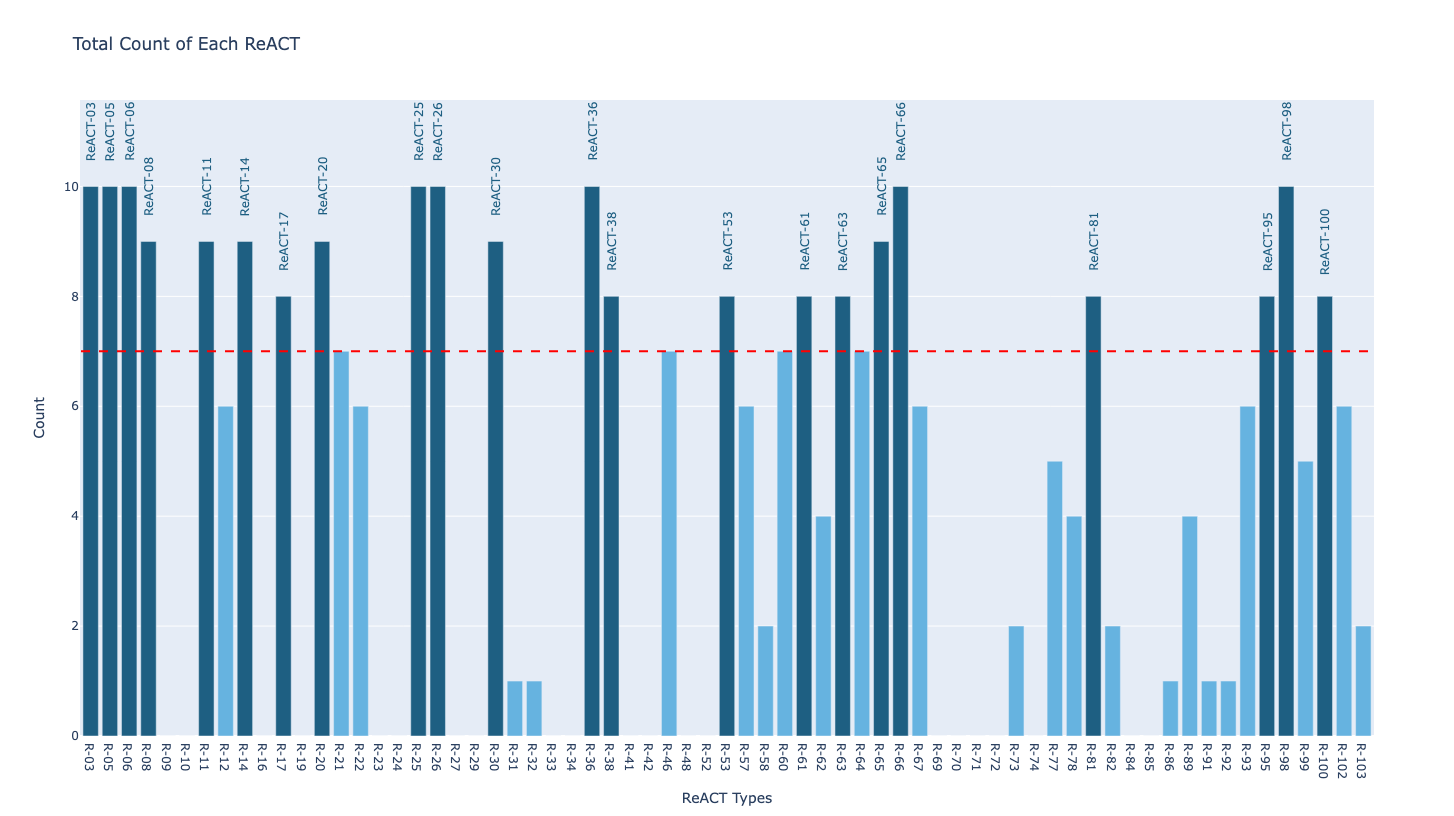
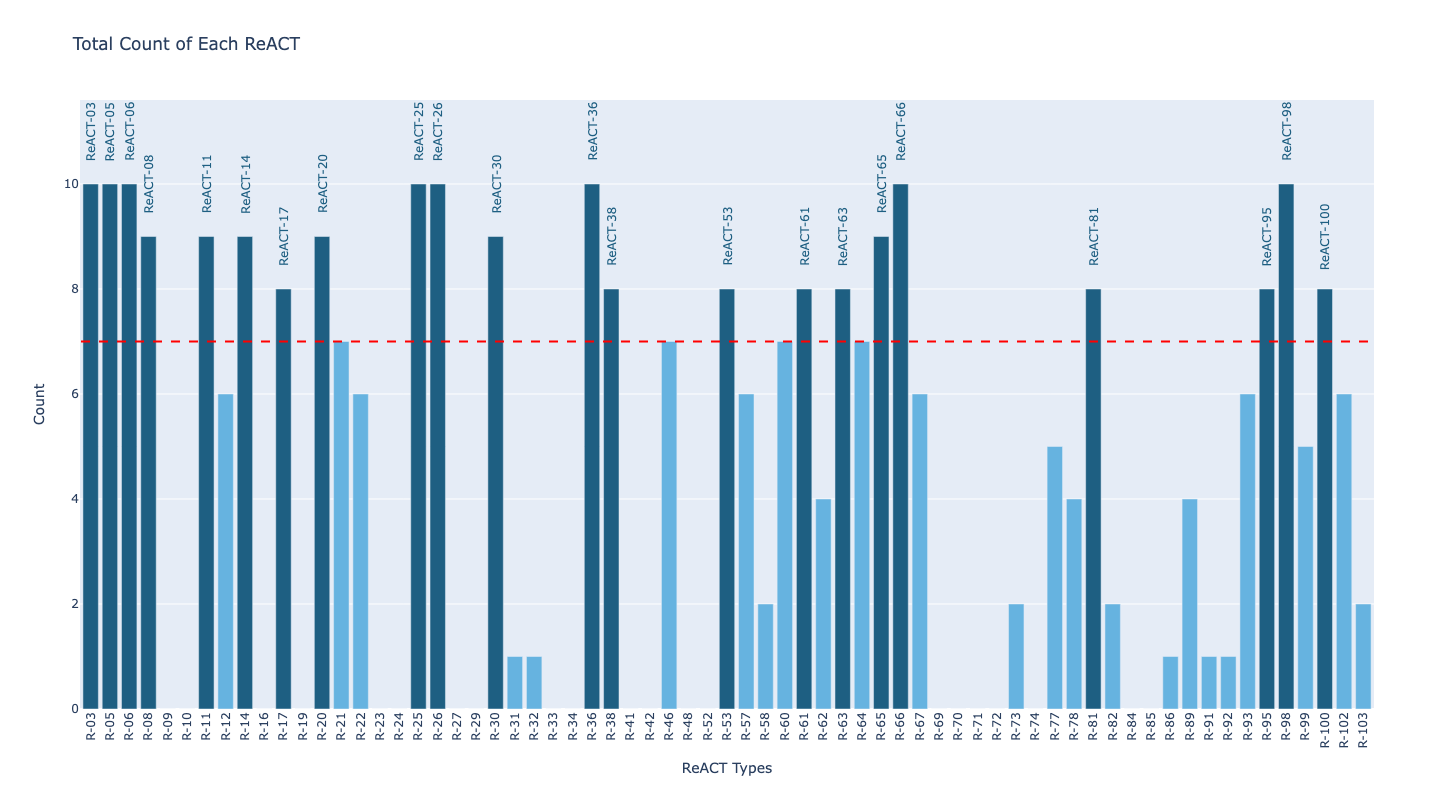
Modified plot to have homogenity.

diff --git a/FinalAnalysis/finalplot.py b/FinalAnalysis/finalplot.py
@@ -3,17 +3,12 @@ import plotly.graph_objects as go
 
 df = pd.read_csv("ReACTCounts.csv", header=None)
 
-
 df = df.T
 df.columns = ["Count", "React"]
 df = df.iloc[1:].reset_index(drop=True)
 
-
 df["Count"] = pd.to_numeric(df["Count"], errors="coerce").astype(int)
-
-
 df["Color"] = df["Count"].apply(lambda x: "#1e5f82" if x > 7 else "#66b3e0")
-
 
 fig = go.Figure()
 
@@ -24,7 +19,6 @@ for _, row in df.iterrows():
         marker_color=row["Color"],
         name=row["React"]
     ))
-
 
 for _, row in df.iterrows():
     if row["Count"] > 7:
@@ -38,7 +32,6 @@ for _, row in df.iterrows():
             textangle=-90 
         )
 
-# Add red dashed threshold line at y=7
 fig.add_shape(
     type="line",
     x0=-0.5, x1=len(df) - 0.5, 
@@ -46,12 +39,12 @@ fig.add_shape(
     line=dict(color="red", width=2, dash="dash")
 )
 
-# Layout adjustments
 fig.update_layout(
     title="Total Count of Each ReACT",
     xaxis_title="ReACT Types",
     yaxis_title="Count",
-    showlegend=False
+    showlegend=False,
+    xaxis=dict(tickangle=270)  # Rotate x-axis labels by 180 degrees
 )
 
 fig.show()
